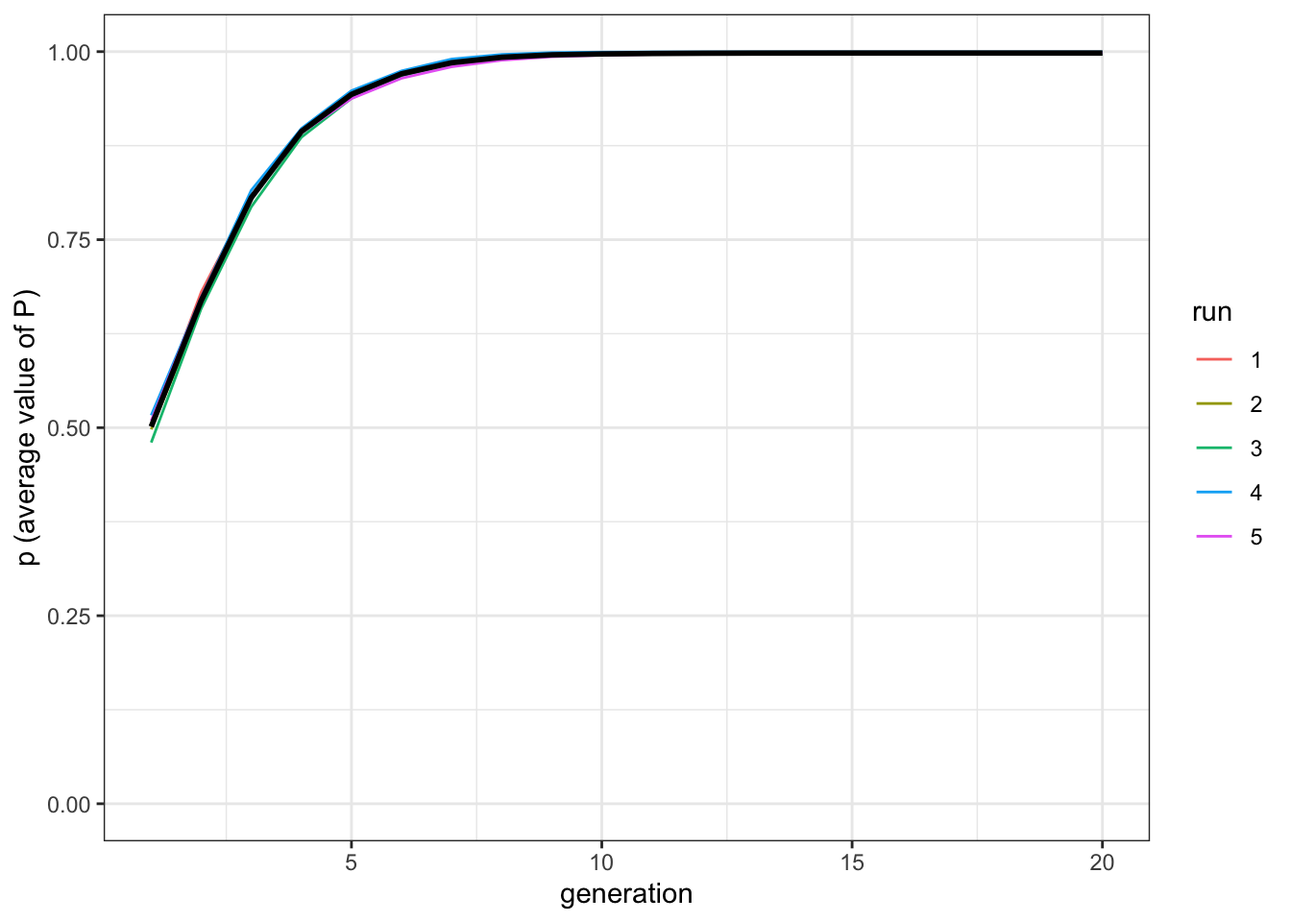
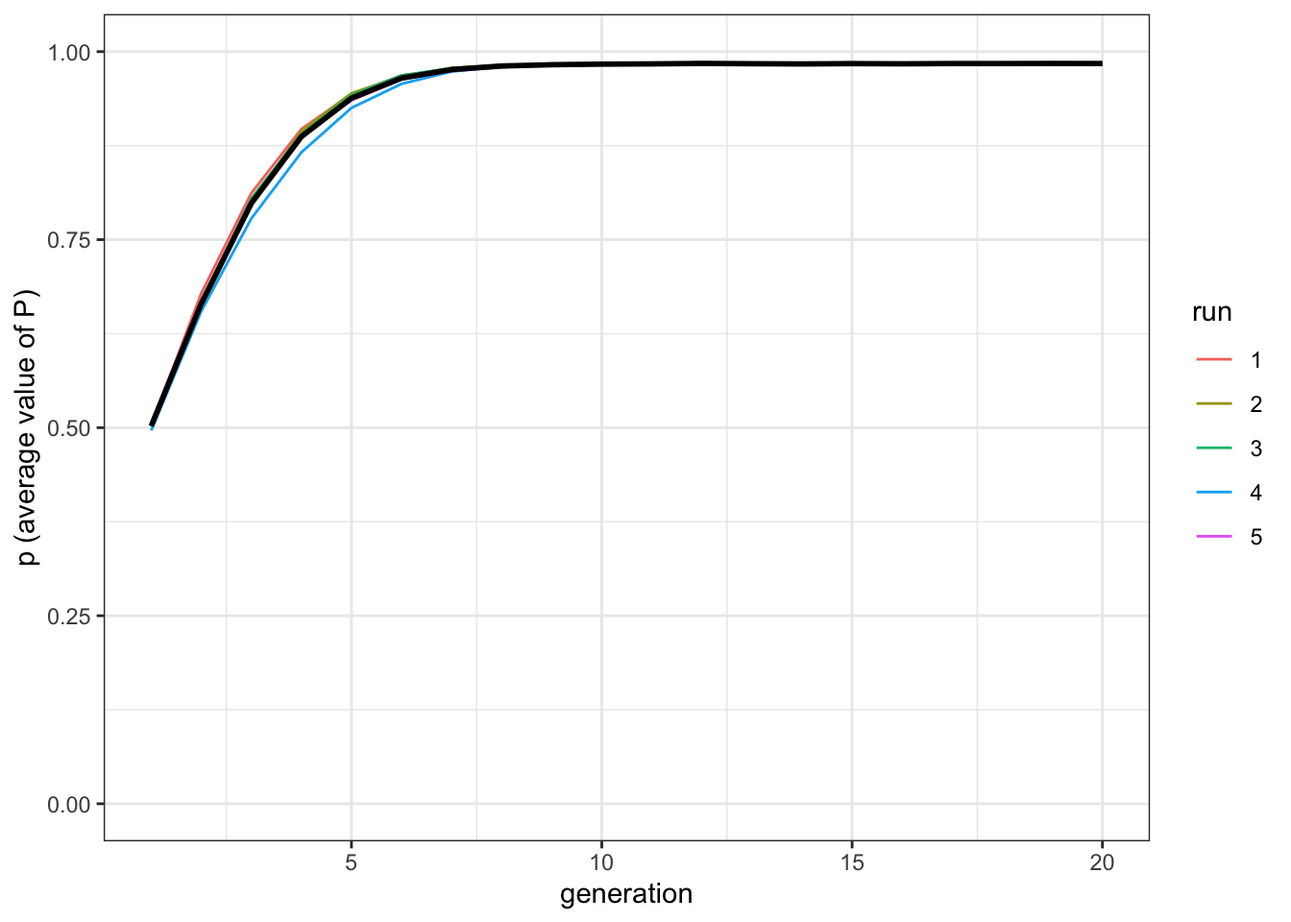
code for chapter 13

diff --git a/_book/reproduction-and-transformation.html b/_book/reproduction-and-transformation.html
@@ -4,11 +4,11 @@
 
   <meta charset="utf-8" />
   <meta http-equiv="X-UA-Compatible" content="IE=edge" />
-  <title>9 Selection and transformation | Individual-based models of cultural evolution</title>
+  <title>9 Reproduction and transformation | Individual-based models of cultural evolution</title>
   <meta name="description" content="A minimal working structure for the book" />
   <meta name="generator" content="bookdown 0.11 and GitBook 2.6.7" />
 
-  <meta property="og:title" content="9 Selection and transformation | Individual-based models of cultural evolution" />
+  <meta property="og:title" content="9 Reproduction and transformation | Individual-based models of cultural evolution" />
   <meta property="og:type" content="book" />
   
   
@@ -16,7 +16,7 @@
   
 
   <meta name="twitter:card" content="summary" />
-  <meta name="twitter:title" content="9 Selection and transformation | Individual-based models of cultural evolution" />
+  <meta name="twitter:title" content="9 Reproduction and transformation | Individual-based models of cultural evolution" />
   
   <meta name="twitter:description" content="A minimal working structure for the book" />
   
@@ -161,11 +161,12 @@ code > span.in { color: #60a0b0; font-weight: bold; font-style: italic; } /* Inf
 </ul></li>
 <li class="chapter" data-level="7" data-path="group-structure.html"><a href="group-structure.html"><i class="fa fa-check"></i><b>7</b> Group structured populations and migration</a></li>
 <li class="chapter" data-level="8" data-path="social-network-structure.html"><a href="social-network-structure.html"><i class="fa fa-check"></i><b>8</b> Social network structure</a></li>
-<li class="chapter" data-level="9" data-path="selection-and-transformation.html"><a href="selection-and-transformation.html"><i class="fa fa-check"></i><b>9</b> Selection and transformation</a><ul>
-<li class="chapter" data-level="9.1" data-path="selection-and-transformation.html"><a href="selection-and-transformation.html#emergent-similarity"><i class="fa fa-check"></i><b>9.1</b> Emergent similarity</a></li>
-<li class="chapter" data-level="9.2" data-path="selection-and-transformation.html"><a href="selection-and-transformation.html#summary-of-the-model-7"><i class="fa fa-check"></i><b>9.2</b> Summary of the model</a></li>
-<li class="chapter" data-level="9.3" data-path="selection-and-transformation.html"><a href="selection-and-transformation.html#analytical-appendix-7"><i class="fa fa-check"></i><b>9.3</b> Analytical appendix</a></li>
-<li class="chapter" data-level="9.4" data-path="selection-and-transformation.html"><a href="selection-and-transformation.html#further-readings-3"><i class="fa fa-check"></i><b>9.4</b> Further readings</a></li>
+<li class="chapter" data-level="9" data-path="reproduction-and-transformation.html"><a href="reproduction-and-transformation.html"><i class="fa fa-check"></i><b>9</b> Reproduction and transformation</a><ul>
+<li class="chapter" data-level="9.1" data-path="reproduction-and-transformation.html"><a href="reproduction-and-transformation.html#emergent-similarity"><i class="fa fa-check"></i><b>9.1</b> Emergent similarity</a></li>
+<li class="chapter" data-level="9.2" data-path="reproduction-and-transformation.html"><a href="reproduction-and-transformation.html#the-cultural-price-equation"><i class="fa fa-check"></i><b>9.2</b> The cultural Price equation</a></li>
+<li class="chapter" data-level="9.3" data-path="reproduction-and-transformation.html"><a href="reproduction-and-transformation.html#summary-of-the-model-7"><i class="fa fa-check"></i><b>9.3</b> Summary of the model</a></li>
+<li class="chapter" data-level="9.4" data-path="reproduction-and-transformation.html"><a href="reproduction-and-transformation.html#analytical-appendix-7"><i class="fa fa-check"></i><b>9.4</b> Analytical appendix</a></li>
+<li class="chapter" data-level="9.5" data-path="reproduction-and-transformation.html"><a href="reproduction-and-transformation.html#further-readings-3"><i class="fa fa-check"></i><b>9.5</b> Further readings</a></li>
 </ul></li>
 <li class="chapter" data-level="10" data-path="social-learning-of-social-learning-rules.html"><a href="social-learning-of-social-learning-rules.html"><i class="fa fa-check"></i><b>10</b> Social learning of social learning rules</a><ul>
 <li class="chapter" data-level="10.1" data-path="social-learning-of-social-learning-rules.html"><a href="social-learning-of-social-learning-rules.html#openness-and-conservatism"><i class="fa fa-check"></i><b>10.1</b> Openness and conservatism</a></li>
@@ -201,17 +202,17 @@ code > span.in { color: #60a0b0; font-weight: bold; font-style: italic; } /* Inf
           <div class="page-inner">
 
             <section class="normal" id="section-">
-<div id="selection-and-transformation" class="section level1">
-<h1><span class="header-section-number">9</span> Selection and transformation</h1>
-<p>To be considered “cultural”, ideas, behaviours, and artefacts need to be sufficiently stable in time. The version of <em>Little Red Riding Hood</em> we heard now is considered part of a long cultural transmission chain that includes all the other versions of the tale becasue they all share <em>enough</em> features to be considered the same tale. Similarly, the lasagne I cooked yesterday are part of a long, intricate, chain of cultural transmission events, where all the products are stable enough that we can consider one cultural trait as <em>lasagne</em>. Boundaries are muddled for many traits: while some artifcats can be the exact replica of each other, no two identical lasagne exist. In any case,the question we explore in this chapter is: how does this stability is brought about? In the models so far, as much as in the majority of models in cultural evolution, we assumed that traits are copied from one (cultural) generation to another with enough fidelity to assure a realtive stability. This is a useful assumption and, in many case, a good approximation of what happens in reality.</p>
-<p>However, cultural traits can also be stable not because they are copied with high-fidelity, but also because when passing from an individual to another they are independently reconstructed in the same way or, another way to say it, they become similar to each other through a process of convergent transformation. Think about whistling. We do learn to whistle from each other through a process of cultural transmission (we want to reproduce what others do), but the configuration of the muscles in the mouth is not something that we copy directly. Still, there are few ways to effectively whistle, so they we likely end up with the same - or similar - configuration. (Notice we can also actually copy the exact configuration and, indeed, there are specialised whistling tecniques for which it is required. As we will discuss later, copying and reconstruting are not two alternative processes, but they both concur to cultural evolution.)</p>
+<div id="reproduction-and-transformation" class="section level1">
+<h1><span class="header-section-number">9</span> Reproduction and transformation</h1>
+<p>To be considered “cultural”, ideas, behaviours, and artifacts need to be sufficiently stable in time. The version of <em>Little Red Riding Hood</em> we heard now is part of a long cultural transmission chain that includes all the other versions of the tale because they all share <em>enough</em> features to be considered the same tale. Similarly, the lasagne I cooked yesterday are part of a long, intricate, chain of cultural transmission events, where all the products are stable enough that we can consider one cultural trait as <em>lasagne</em>. Boundaries are muddled for many traits: while some artifacts can be the exact replica of each other, no two identical lasagne exist. In any case, the question we explore in this chapter is: how does this stability is brought about? In the models so far, as much as in the majority of models in cultural evolution, we assumed that traits are copied from one (cultural) generation to another with enough fidelity to assure a relative stability. This is a useful assumption and, in many case, a good approximation of what happens in reality.</p>
+<p>However, cultural traits can also be stable not because they are copied with high-fidelity, but also because when passing from an individual to another they are independently reconstructed in the same way or, another way to say it, they become similar to each other through a process of convergent transformation. Think about whistling. We do learn to whistle from each other through a process of cultural transmission (we want to reproduce what others do), but the configuration of the muscles in the mouth is not something that we copy directly. Still, there are few ways to effectively whistle, so they we likely end up with the same - or similar - configuration. (Notice we can also actually copy the exact configuration and, indeed, there are specialised whistling techniques for which it is required. As we will discuss later, copying and reconstructing are not two alternative processes, but they both concur to cultural evolution.)</p>
 <p>To have a better grasp of the consequence of this idea we can, as usual, try to model a very simple case, where cultural stability can be obtained with a process of copying and selection of a model, as we did in many of the previous chapters, or with convergent transformation, where individuals are not very good at copying, or at selecting models, but they tend to transform the trait in the same way.</p>
-<p>Let’s imagine a population with a single trait, a continuos trait <span class="math inline">\(P\)</span>, that can have values between <span class="math inline">\(0\)</span> and <span class="math inline">\(1\)</span>. At the beginning of the simulations <span class="math inline">\(P\)</span> is uniformely distributed in the population. Let’s say the optimal value of <span class="math inline">\(P\)</span> is <span class="math inline">\(1\)</span> (this is convenient for the code, but the exact value is not important). You can think to <span class="math inline">\(P\)</span> as, for example, how sharp is a knife: the more the better.</p>
+<p>Let’s imagine a population with a single trait, a continuous trait <span class="math inline">\(P\)</span>, that can have values between <span class="math inline">\(0\)</span> and <span class="math inline">\(1\)</span>. At the beginning of the simulations, <span class="math inline">\(P\)</span> is uniformly distributed in the population. Let’s say the optimal value of <span class="math inline">\(P\)</span> is <span class="math inline">\(1\)</span> (this is convenient for the code, but the exact value is not important). You can think to <span class="math inline">\(P\)</span> as, for example, how sharp is a knife: the more the better.</p>
 <div class="sourceCode"><pre class="sourceCode r"><code class="sourceCode r"><span class="kw">library</span>(tidyverse)
 <span class="kw">set.seed</span>(<span class="dv">111</span>)
 N &lt;-<span class="st"> </span><span class="dv">1000</span>
 population &lt;-<span class="st"> </span><span class="kw">tibble</span>(<span class="dt">P =</span> <span class="kw">runif</span>(N))</code></pre></div>
-<p>Now, we can write the familiar function where individuals copy the trait from the previous generation with one of the biases we explored earlier in the book. In (<a href="biased-transmission-direct-bias.html#biased-transmission-direct-bias">Chapter 3</a>), for example, we showed how a direct bias for one of two discrete cultural trait could make it spread and go to fixation. We can do something similar here, with the difference that the trait is continuous and the bias needs to be a prefernce for traits close to the optimal value. (Notice the code would be equilvaelent, and we would obtain the same effect of convergence to optimal value thinking in terms of other mehtods of cultural selection, e.g. and indirect bias towards succesful demonstrators, that are sucessfull as they have a <span class="math inline">\(P\)</span> close to the optimal).</p>
+<p>Now, we can write the familiar function where individuals copy the trait from the previous generation with one of the biases we explored earlier in the book. In <a href="biased-transmission-direct-bias.html#biased-transmission-direct-bias">Chapter 3</a>, for example, we showed how a direct bias for one of two discrete cultural traits could make it spread and go to fixation. We can do something similar here, with the difference that the trait is continuous and the bias needs to be a preference for traits close to the optimal value. (Notice the code would be equivalent - and we would obtain the same effect of convergence to optimal value - thinking in terms of other methods of cultural selection, e.g. and indirect bias towards successful demonstrators, that are successful as they have a <span class="math inline">\(P\)</span> close to the optimal).</p>
 <div class="sourceCode"><pre class="sourceCode r"><code class="sourceCode r">selection &lt;-<span class="st"> </span><span class="cf">function</span>(N, t_max, r_max, mu) {
   output &lt;-<span class="st"> </span><span class="kw">tibble</span>(<span class="dt">generation =</span> <span class="kw">rep</span>(<span class="dv">1</span><span class="op">:</span>t_max, r_max), <span class="dt">p =</span> <span class="kw">rep</span>(<span class="ot">NA</span>, t_max <span class="op">*</span><span class="st"> </span>r_max), <span class="dt">run =</span> <span class="kw">as.factor</span>(<span class="kw">rep</span>(<span class="dv">1</span><span class="op">:</span>r_max, <span class="dt">each =</span> t_max)))
   <span class="cf">for</span> (r <span class="cf">in</span> <span class="dv">1</span><span class="op">:</span>r_max) {
@@ -231,8 +232,8 @@ population &lt;-<span class="st"> </span><span class="kw">tibble</span>(<span cl
   }
   output <span class="co"># export data from function</span>
 }</code></pre></div>
-<p>The function it is similar to what we have already done several times. Let’s have a look at the few differences. First, we find again the parameter <span class="math inline">\(\mu\)</span>, as done for <a href="unbiased-and-biased-mutation.html#unbiased-and-biased-mutation">biased mutation</a> and <a href="multiple-traits-models.html#multiple-traits-models">innovation</a> in previous chapters. Similarly, it implements here the error in copying: with respect to the <span class="math inline">\(P\)</span> of the demonstrator chosen, the new trait will vary of maximum of <span class="math inline">\(\mu\)</span>, through the instruction <code>runif(N, -mu, +mu)</code>. The two following lines just keep the traits in the boundaries between <span class="math inline">\(0\)</span> and <span class="math inline">\(1\)</span>. The second difference is in the selection of the trait to copy. Here each individual sample two traits (or demonstrators) from the previous generation, and simply copies the one with the trait close to the optimal value of <span class="math inline">\(1\)</span>.</p>
-<p>We can now run the simulation, and plot it with a slightly modified function <code>plot_multiple_runs_p()</code> (we just need to change the label for y-axis). We use a low value for the copying error, <span class="math inline">\(\mu=0.05\)</span>.</p>
+<p>The function is similar to what we have already done several times. Let’s have a look at the few differences. First, we find again the parameter <span class="math inline">\(\mu\)</span>, as done for <a href="unbiased-and-biased-mutation.html#unbiased-and-biased-mutation">biased mutation</a> and <a href="multiple-traits-models.html#multiple-traits-models">innovation</a> in previous chapters. Similarly, it implements here the error in copying: with respect to the <span class="math inline">\(P\)</span> of the demonstrator chosen, the new trait will vary of maximum of <span class="math inline">\(\mu\)</span>, through the instruction <code>runif(N, -mu, +mu)</code>. The two following lines just keep the traits in the boundaries between <span class="math inline">\(0\)</span> and <span class="math inline">\(1\)</span>. The second difference is in the selection of the trait to copy. Here each individual sample two traits (or demonstrators) from the previous generation, and simply copies the one with the trait closer to the optimal value of <span class="math inline">\(1\)</span>.</p>
+<p>We can now run the simulation, and plot it with a slightly modified function <code>plot_multiple_runs_p()</code> (we just need to change the label for y-axis). We use a low value for the copying error such as <span class="math inline">\(\mu=0.05\)</span>.</p>
 <div class="sourceCode"><pre class="sourceCode r"><code class="sourceCode r">plot_multiple_runs_p &lt;-<span class="st"> </span><span class="cf">function</span>(data_model) {
   <span class="kw">ggplot</span>(<span class="dt">data =</span> data_model, <span class="kw">aes</span>(<span class="dt">y =</span> p, <span class="dt">x =</span> generation)) <span class="op">+</span>
 <span class="st">    </span><span class="kw">geom_line</span>(<span class="kw">aes</span>(<span class="dt">colour =</span> run)) <span class="op">+</span>
@@ -244,8 +245,8 @@ population &lt;-<span class="st"> </span><span class="kw">tibble</span>(<span cl
 <div class="sourceCode"><pre class="sourceCode r"><code class="sourceCode r">data_model &lt;-<span class="st"> </span><span class="kw">selection</span>(<span class="dt">N =</span> <span class="dv">1000</span>, <span class="dt">t_max =</span> <span class="dv">20</span>, <span class="dt">r_max =</span> <span class="dv">5</span>, <span class="dt">mu =</span> <span class="fl">0.05</span>)
 <span class="kw">plot_multiple_runs_p</span>(data_model)</code></pre></div>
 <p><img src="_main_files/figure-html/13.4-1.png" width="672" /></p>
-<p>Even with a weak form of selection (sampling two traits and chosing the better one) the population converge on the optimal value quickly, in only around ten cultural generations.</p>
-<p>Now we can write another function where convergent transformation prouduces the same effect.</p>
+<p>Even with a weak form of selection (sampling two traits and choosing the better one) the population converges on the optimal value quickly, in only around ten cultural generations.</p>
+<p>Now we can write another function where convergent transformation produces the same effect.</p>
 <div class="sourceCode"><pre class="sourceCode r"><code class="sourceCode r">transformation &lt;-<span class="st"> </span><span class="cf">function</span>(N, t_max, r_max) {
   output &lt;-<span class="st"> </span><span class="kw">tibble</span>(<span class="dt">generation =</span> <span class="kw">rep</span>(<span class="dv">1</span><span class="op">:</span>t_max, r_max), <span class="dt">p =</span> <span class="kw">rep</span>(<span class="ot">NA</span>, t_max <span class="op">*</span><span class="st"> </span>r_max), <span class="dt">run =</span> <span class="kw">as.factor</span>(<span class="kw">rep</span>(<span class="dv">1</span><span class="op">:</span>r_max, <span class="dt">each =</span> t_max)))
   <span class="cf">for</span> (r <span class="cf">in</span> <span class="dv">1</span><span class="op">:</span>r_max) {
@@ -263,26 +264,82 @@ population &lt;-<span class="st"> </span><span class="kw">tibble</span>(<span cl
   }
   output <span class="co"># export data from function</span>
 }</code></pre></div>
-<p>There is only a line we need to pay attention to: the values of <span class="math inline">\(P\)</span> of the new generation are calculated as <code>demonstrators$P + runif(N, max = 1-demonstrators$P)</code>. This means that the individuals of the new popualtion copy the old generation, but they are not particularly good. They take a value of <span class="math inline">\(P\)</span> randomly drawn between the value of the demonstrator and the otpimal <span class="math inline">\(P=1\)</span>. Thus, if they attemp to copy a demonstrator with <span class="math inline">\(P=0.1\)</span>, their “error” can be as large as 0.9. Let’s run the simulations.</p>
+<p>There is only a line we need to pay attention to: the values of <span class="math inline">\(P\)</span> of the new generation are calculated as <code>demonstrators$P + runif(N, max = 1-demonstrators$P)</code>. This means that the individuals of the new population copy the old generation, but they are not particularly good. They take a value of <span class="math inline">\(P\)</span> randomly drawn between the value of the demonstrator and the optimal <span class="math inline">\(P=1\)</span>. Thus, if they attempt to copy a demonstrator with <span class="math inline">\(P=0.1\)</span>, their “error” can be as large as 0.9. Let’s run the simulations.</p>
 <div class="sourceCode"><pre class="sourceCode r"><code class="sourceCode r">data_model &lt;-<span class="st"> </span><span class="kw">transformation</span>(<span class="dt">N =</span> <span class="dv">1000</span>, <span class="dt">t_max =</span> <span class="dv">20</span>, <span class="dt">r_max =</span> <span class="dv">5</span>)
 <span class="kw">plot_multiple_runs_p</span>(data_model)</code></pre></div>
 <p><img src="_main_files/figure-html/13.6-1.png" width="672" /></p>
-<p>As the transformations tend to all converge in the same direction, the results are equivalent to the previous model. It does not matter when exactly the popualtion reaches stability at <span class="math inline">\(P=1\)</span>, as this depends on the specific implementation choices, for example the strength of cultural selection in the first model, or how big can be the “jump” of the transformation in the second model.</p>
-<p>When we see cultural traits in real life, we are observing systems in a state analogous to what happens on the right side of the two plots, where individuals reproduce traits one similar to the other. As we mentioend earlier in the chapter, both faithful copying and transformation can be important for culture, and their importance can depend from the specific features we are interested to track, or from the cultural domain. How can we distinguish the relative importance of the two processes?</p>
+<p>As the transformations tend to all converge in the same direction, the results are equivalent to the previous model. It does not matter when exactly the population reaches stability at <span class="math inline">\(P=1\)</span>, as this depends on the specific implementation choices, for example the strength of cultural selection in the first model, or how big can be the “jump” of the transformation in the second model.</p>
+<p>When we see cultural traits in real life, we are observing systems in a state analogous to what happens on the right side of the two plots, where individuals reproduce traits one similar to the other. As we mentioned earlier in the chapter, both faithful copying and transformation can be important for culture, and their importance can depend from the specific features we are interested to track, or from the cultural domain. How can we distinguish the relative importance of the two processes?</p>
 <div id="emergent-similarity" class="section level2">
 <h2><span class="header-section-number">9.1</span> Emergent similarity</h2>
+<p>New function for selection, calculating the error:</p>
+<div class="sourceCode"><pre class="sourceCode r"><code class="sourceCode r">selection &lt;-<span class="st"> </span><span class="cf">function</span>(N, t_max, r_max, mu) {
+  output &lt;-<span class="st"> </span><span class="kw">tibble</span>(<span class="dt">generation =</span> <span class="kw">rep</span>(<span class="dv">1</span><span class="op">:</span>t_max, r_max), <span class="dt">p =</span> <span class="kw">rep</span>(<span class="ot">NA</span>, t_max <span class="op">*</span><span class="st"> </span>r_max), <span class="dt">run =</span> <span class="kw">as.factor</span>(<span class="kw">rep</span>(<span class="dv">1</span><span class="op">:</span>r_max, <span class="dt">each =</span> t_max)), <span class="dt">d =</span> <span class="kw">rep</span>(<span class="ot">NA</span>, t_max <span class="op">*</span><span class="st"> </span>r_max))
+  <span class="cf">for</span> (r <span class="cf">in</span> <span class="dv">1</span><span class="op">:</span>r_max) {
+    population &lt;-<span class="st"> </span><span class="kw">tibble</span>(<span class="dt">P =</span> <span class="kw">runif</span>(N))
+    <span class="co"># create first generation</span>
+    output[output<span class="op">$</span>generation <span class="op">==</span><span class="st"> </span><span class="dv">1</span> <span class="op">&amp;</span><span class="st"> </span>output<span class="op">$</span>run <span class="op">==</span><span class="st"> </span>r, ]<span class="op">$</span>p &lt;-<span class="st"> </span><span class="kw">sum</span>(population<span class="op">$</span>P) <span class="op">/</span><span class="st"> </span>N <span class="co"># add first generation&#39;s p for run r</span>
+    <span class="cf">for</span> (t <span class="cf">in</span> <span class="dv">2</span><span class="op">:</span>t_max) {
+      previous_population &lt;-<span class="st"> </span>population <span class="co"># copy individuals to previous_population tibble</span>
+      demonstrators &lt;-<span class="st"> </span><span class="kw">tibble</span>(<span class="dt">P1 =</span> <span class="kw">sample</span>(previous_population<span class="op">$</span>P, N, <span class="dt">replace =</span> <span class="ot">TRUE</span>), <span class="dt">P2 =</span> <span class="kw">sample</span>(previous_population<span class="op">$</span>P, N, <span class="dt">replace =</span> <span class="ot">TRUE</span>))
+      copy &lt;-<span class="st"> </span><span class="kw">pmax</span>(demonstrators<span class="op">$</span>P1, demonstrators<span class="op">$</span>P2)
+
+      population<span class="op">$</span>P &lt;-<span class="st"> </span>copy <span class="op">+</span><span class="st"> </span><span class="kw">runif</span>(N, <span class="op">-</span>mu, <span class="op">+</span>mu)
+      population<span class="op">$</span>P[population<span class="op">$</span>P <span class="op">&gt;</span><span class="st"> </span><span class="dv">1</span>] &lt;-<span class="st"> </span><span class="dv">1</span>
+      population<span class="op">$</span>P[population<span class="op">$</span>P <span class="op">&lt;</span><span class="st"> </span><span class="dv">0</span>] &lt;-<span class="st"> </span><span class="dv">0</span>
+      output[output<span class="op">$</span>generation <span class="op">==</span><span class="st"> </span>t <span class="op">&amp;</span><span class="st"> </span>output<span class="op">$</span>run <span class="op">==</span><span class="st"> </span>r, ]<span class="op">$</span>p &lt;-<span class="st"> </span><span class="kw">sum</span>(population<span class="op">$</span>P) <span class="op">/</span><span class="st"> </span>N <span class="co"># get p and put it into output slot for this generation t and run r</span>
+      output[output<span class="op">$</span>generation <span class="op">==</span><span class="st"> </span>t <span class="op">&amp;</span><span class="st"> </span>output<span class="op">$</span>run <span class="op">==</span><span class="st"> </span>r, ]<span class="op">$</span>d &lt;-<span class="st"> </span><span class="kw">sum</span>(<span class="kw">abs</span>(population<span class="op">$</span>P <span class="op">-</span><span class="st"> </span>copy)) <span class="op">/</span><span class="st"> </span>N
+    }
+  }
+  output <span class="co"># export data from function</span>
+}</code></pre></div>
+<p>Run:</p>
+<div class="sourceCode"><pre class="sourceCode r"><code class="sourceCode r">data_model_selection &lt;-<span class="st"> </span><span class="kw">selection</span>(<span class="dt">N =</span> <span class="dv">1000</span>, <span class="dt">t_max =</span> <span class="dv">20</span>, <span class="dt">r_max =</span> <span class="dv">5</span>, <span class="dt">mu =</span> <span class="fl">0.05</span>)</code></pre></div>
+<p>Same for transformation:</p>
+<div class="sourceCode"><pre class="sourceCode r"><code class="sourceCode r">transformation &lt;-<span class="st"> </span><span class="cf">function</span>(N, t_max, r_max) {
+  output &lt;-<span class="st"> </span><span class="kw">tibble</span>(<span class="dt">generation =</span> <span class="kw">rep</span>(<span class="dv">1</span><span class="op">:</span>t_max, r_max), <span class="dt">p =</span> <span class="kw">rep</span>(<span class="ot">NA</span>, t_max <span class="op">*</span><span class="st"> </span>r_max), <span class="dt">run =</span> <span class="kw">as.factor</span>(<span class="kw">rep</span>(<span class="dv">1</span><span class="op">:</span>r_max, <span class="dt">each =</span> t_max)), <span class="dt">d =</span> <span class="kw">rep</span>(<span class="ot">NA</span>, t_max <span class="op">*</span><span class="st"> </span>r_max))
+  <span class="cf">for</span> (r <span class="cf">in</span> <span class="dv">1</span><span class="op">:</span>r_max) {
+    population &lt;-<span class="st"> </span><span class="kw">tibble</span>(<span class="dt">P =</span> <span class="kw">runif</span>(N))
+    <span class="co"># create first generation</span>
+    output[output<span class="op">$</span>generation <span class="op">==</span><span class="st"> </span><span class="dv">1</span> <span class="op">&amp;</span><span class="st"> </span>output<span class="op">$</span>run <span class="op">==</span><span class="st"> </span>r, ]<span class="op">$</span>p &lt;-<span class="st"> </span><span class="kw">sum</span>(population<span class="op">$</span>P) <span class="op">/</span><span class="st"> </span>N <span class="co"># add first generation&#39;s p for run r</span>
+    <span class="cf">for</span> (t <span class="cf">in</span> <span class="dv">2</span><span class="op">:</span>t_max) {
+      previous_population &lt;-<span class="st"> </span>population <span class="co"># copy individuals to previous_population tibble</span>
+      demonstrators &lt;-<span class="st"> </span><span class="kw">tibble</span>(<span class="dt">P =</span> <span class="kw">sample</span>(previous_population<span class="op">$</span>P, N, <span class="dt">replace =</span> <span class="ot">TRUE</span>))
+      
+      population<span class="op">$</span>P &lt;-<span class="st"> </span>demonstrators<span class="op">$</span>P <span class="op">+</span><span class="st"> </span><span class="kw">runif</span>(N, <span class="dt">max =</span> <span class="dv">1</span><span class="op">-</span>demonstrators<span class="op">$</span>P)
+      
+      output[output<span class="op">$</span>generation <span class="op">==</span><span class="st"> </span>t <span class="op">&amp;</span><span class="st"> </span>output<span class="op">$</span>run <span class="op">==</span><span class="st"> </span>r, ]<span class="op">$</span>p &lt;-<span class="st"> </span><span class="kw">sum</span>(population<span class="op">$</span>P) <span class="op">/</span><span class="st"> </span>N <span class="co"># get p and put it into output slot for this generation t and run r</span>
+      output[output<span class="op">$</span>generation <span class="op">==</span><span class="st"> </span>t <span class="op">&amp;</span><span class="st"> </span>output<span class="op">$</span>run <span class="op">==</span><span class="st"> </span>r, ]<span class="op">$</span>d &lt;-<span class="st"> </span><span class="kw">sum</span>(<span class="kw">abs</span>(population<span class="op">$</span>P <span class="op">-</span><span class="st"> </span>demonstrators<span class="op">$</span>P)) <span class="op">/</span><span class="st"> </span>N
+    }
+  }
+  output <span class="co"># export data from function</span>
+}</code></pre></div>
+<div class="sourceCode"><pre class="sourceCode r"><code class="sourceCode r">data_model_transformation &lt;-<span class="st"> </span><span class="kw">transformation</span>(<span class="dt">N =</span> <span class="dv">1000</span>, <span class="dt">t_max =</span> <span class="dv">20</span>, <span class="dt">r_max =</span> <span class="dv">5</span>)</code></pre></div>
+<p>Custom plot:</p>
+<div class="sourceCode"><pre class="sourceCode r"><code class="sourceCode r">data_to_plot &lt;-<span class="st"> </span><span class="kw">tibble</span>(<span class="dt">distance =</span> <span class="kw">c</span>(<span class="kw">na.omit</span>(data_model_selection<span class="op">$</span>d), <span class="kw">na.omit</span>(data_model_transformation<span class="op">$</span>d)), 
+                       <span class="dt">condition =</span> <span class="kw">rep</span>(<span class="kw">c</span>(<span class="st">&quot;selection&quot;</span>, <span class="st">&quot;transformation&quot;</span>), <span class="dt">each =</span> <span class="dv">95</span>),
+                       <span class="dt">generation =</span> <span class="kw">rep</span>(<span class="dv">2</span><span class="op">:</span><span class="dv">20</span>,<span class="dv">10</span>),
+                       <span class="dt">run =</span> <span class="kw">as.factor</span>(<span class="kw">rep</span>(<span class="dv">1</span><span class="op">:</span><span class="dv">10</span>, <span class="dt">each =</span> <span class="dv">19</span>)))
+<span class="kw">ggplot</span>(<span class="dt">data =</span> data_to_plot, <span class="kw">aes</span>(<span class="dt">y =</span> distance, <span class="dt">x =</span> generation, <span class="dt">group =</span> run, <span class="dt">color =</span> condition)) <span class="op">+</span>
+<span class="st">  </span><span class="kw">geom_line</span>() <span class="op">+</span><span class="st">    </span>
+<span class="st">  </span><span class="kw">theme_bw</span>() <span class="op">+</span>
+<span class="st">  </span><span class="kw">labs</span>(<span class="dt">y =</span> <span class="st">&quot;d (average distance observer/demonstrator)&quot;</span>)</code></pre></div>
+<p><img src="_main_files/figure-html/13.12-1.png" width="672" /></p>
+</div>
+<div id="the-cultural-price-equation" class="section level2">
+<h2><span class="header-section-number">9.2</span> The cultural Price equation</h2>
 <p>TO DO</p>
 </div>
 <div id="summary-of-the-model-7" class="section level2">
-<h2><span class="header-section-number">9.2</span> Summary of the model</h2>
+<h2><span class="header-section-number">9.3</span> Summary of the model</h2>
 <hr />
 </div>
 <div id="analytical-appendix-7" class="section level2">
-<h2><span class="header-section-number">9.3</span> Analytical appendix</h2>
+<h2><span class="header-section-number">9.4</span> Analytical appendix</h2>
 <hr />
 </div>
 <div id="further-readings-3" class="section level2">
-<h2><span class="header-section-number">9.4</span> Further readings</h2>
+<h2><span class="header-section-number">9.5</span> Further readings</h2>
 
 </div>
 </div>

diff --git a/material/TODO_general.md b/material/TODO_general.md
@@ -1,7 +1,5 @@
 # TO DO general
 
-* ~~add set.seed() when necessary~~ (AA)
+* POSSIBLE OTHER MODELS TO ADD:
 
-* ~~name all code chuncks (useful in case we will have an external file with the code, but also for figure names in the book output) (AA)~~ 
-
-* further readings sections (examples in chapter 5/7)
+  * Axelrod's dissmeination of culture?

diff --git a/material/TODO_chapters.md b/material/TODO_chapters.md
@@ -24,7 +24,7 @@
 * ~~07-Multiple traits models:~~
   * ~~everything - just moved from the previous repo (AA)~~
   
-* 13-Selection and transformation
+* 13-Reproduction and transformation
   * links with biased mutation in chapter 2? (AA)
   * do we say something about guided variation elsewhere? (AA)
   

diff --git a/material/TOC.md b/material/TOC.md
@@ -28,14 +28,9 @@
 
 #### Cultural inheritance
 
-13. Selection and transformation
+13. Reproduction and transformation
 14.	Social learning of social learning rules
 15.	Trait inter-dependence
-
-***
-POSSIBLE OTHER MODELS TO ADD:
-
-* Axelrod's dissmeination of culture?
 
 ***
 
